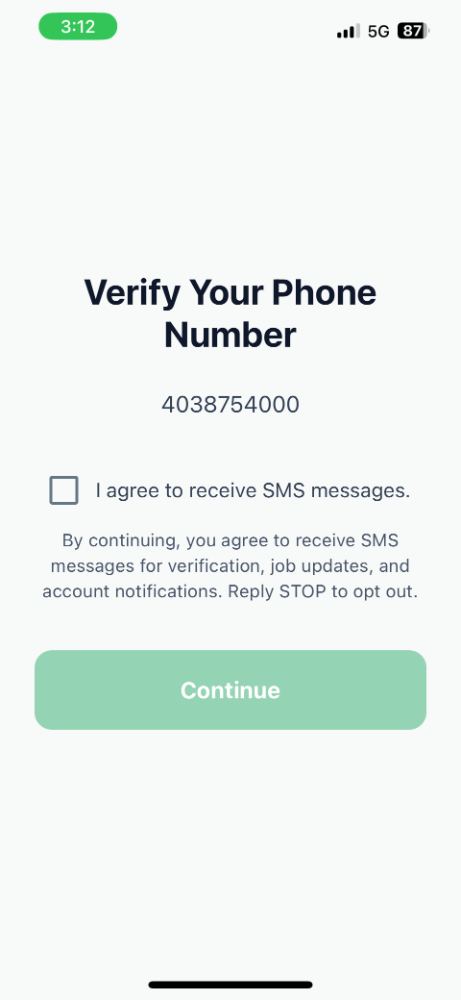
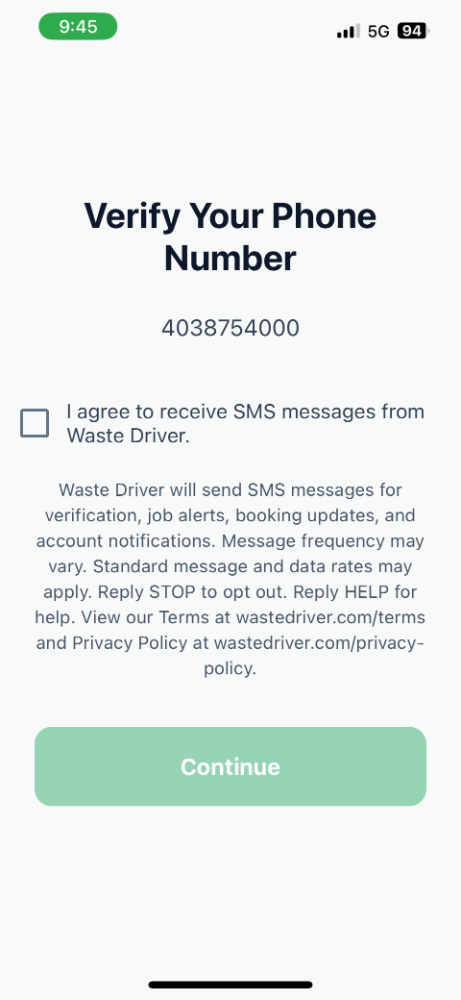
Updated SMS Opt-In snapshot, and updated the SMS-Compliance page

Changed region(s): [[0.0304, 0.186, 0.9414, 0.806], [0.0911, 0.0, 0.2733, 0.062], [0.8807, 0.0, 0.9111, 0.062]]

diff --git a/app/sms-compliance/page.tsx b/app/sms-compliance/page.tsx
@@ -99,6 +99,40 @@ export default function SMSCompliancePage() {
             <li>Agreeing to receive job alerts, quote requests, and operational messages.</li>
           </ul>
 
+{/* ---------------------------------------------------------------------- */}
+{/* CTIA REQUIRED DISCLOSURES (MANDATORY FOR TELNYX APPROVAL)             */}
+{/* ---------------------------------------------------------------------- */}
+<div className="p-8 bg-white rounded-3xl shadow-xl ring-1 ring-black/5">
+  <h2 className="text-3xl font-bold text-slate-900">
+    Required SMS Disclosures (CTIA & Carrier Compliance)
+  </h2>
+
+  <p className="mt-6 text-lg text-slate-700 leading-relaxed">
+    Before receiving any SMS messages from Waste Driver, all Users and Drivers are
+    shown the following mandatory disclosures as part of the SMS opt‑in process:
+  </p>
+
+  <div className="mt-8 space-y-4 text-lg text-slate-700 leading-relaxed">
+    <p><strong>Brand:</strong> Waste Driver Inc.</p>
+    <p><strong>Use Case:</strong> Transactional and operational SMS messages including verification codes, driver quotes, booking confirmations, arrival notifications, and job status updates.</p>
+    <p><strong>Message Frequency:</strong> Message frequency may vary based on account activity.</p>
+    <p><strong>STOP Instructions:</strong> Reply STOP to opt out at any time.</p>
+    <p><strong>HELP Instructions:</strong> Reply HELP for help or support.</p>
+    <p><strong>Rates Disclosure:</strong> Standard message and data rates may apply.</p>
+    <p>
+      <strong>Terms & Privacy Policy:</strong><br />
+      View our <a href="/terms" className="text-emerald-700 hover:text-emerald-800 underline">Terms</a> and 
+      <a href="/privacy-policy" className="text-emerald-700 hover:text-emerald-800 underline ml-1">Privacy Policy</a>.
+    </p>
+  </div>
+
+  <p className="mt-8 text-lg text-slate-700 leading-relaxed">
+    These disclosures are presented directly beside the SMS opt‑in checkbox during
+    account creation and must be acknowledged before any SMS messages are sent.
+  </p>
+</div>
+
+
           {/* ⭐ REQUIRED BY TELNYX — DIGITAL OPT-IN WORKFLOW */}
           <div className="mt-10 p-6 bg-emerald-50 rounded-2xl border border-emerald-200">
             <h3 className="text-2xl font-semibold text-slate-900">Digital Opt‑In Workflow</h3>
